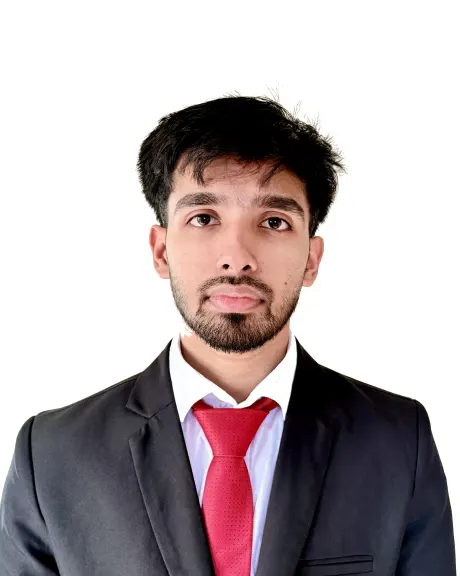
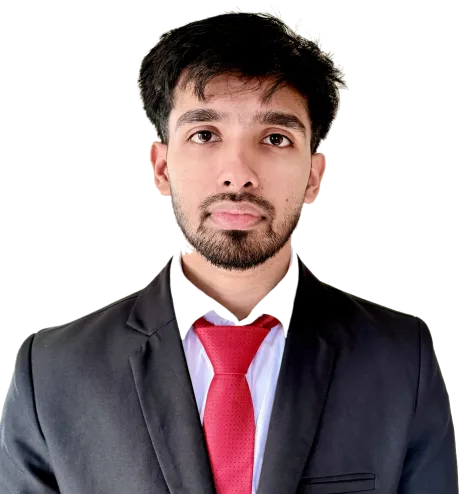
fix(about): cut the studio backdrop out of the headshot
The white studio background read as a bright rectangle punched into a
dark page. Removed it with a border-seeded flood fill over a near-white
test that is generous on brightness but strict on colour cast, so the
subject's white shirt survives while the backdrop goes. Mask computed at
900px, feathered, then scaled back to full resolution and cropped to the
subject.

He now sits directly on the scene over a faint teal wash, desaturated by
default and warming to full colour on hover, with a gradient mask at the
bottom so the shoulders dissolve instead of ending on a hard edge.
Transparent WebP at 104KB and 29KB.

diff --git a/src/styles/_about.scss b/src/styles/_about.scss
@@ -49,19 +49,27 @@
   top: 110px;
 }
 
+/* The backdrop is cut out of the source image, so the subject sits directly
+   on the scene. A teal wash underneath ties him to the palette and clears on
+   hover. */
 .about__photo {
-  padding: 10px;
+  padding: 12px;
+  background:
+    radial-gradient(ellipse 78% 62% at 50% 96%, rgba(79, 227, 176, 0.13), transparent 70%),
+    linear-gradient(to bottom, rgba(13, 20, 32, 0.35), rgba(5, 7, 11, 0.75));
 
   img {
     width: 100%;
     height: auto;
-    filter: grayscale(1) contrast(1.08) brightness(0.92);
-    mix-blend-mode: luminosity;
+    filter: grayscale(0.86) contrast(1.06) brightness(0.94);
     transition: filter var(--dur-slow) var(--ease-out);
+    /* The crop ends at the shoulders. Without this the suit stops on a hard
+       horizontal edge; the fade lets him dissolve into the scene instead. */
+    mask-image: linear-gradient(to bottom, #000 72%, rgba(0, 0, 0, 0.35) 90%, transparent 100%);
   }
 
   &:hover img {
-    filter: grayscale(0.15) contrast(1.02) brightness(1);
+    filter: grayscale(0) contrast(1) brightness(1);
   }
 }
 

diff --git a/src/sections/About.jsx b/src/sections/About.jsx
@@ -39,8 +39,8 @@ export default function About() {
                 srcSet={`${BASE}arif-headshot-sm.webp 460w, ${BASE}arif-headshot.webp 900w`}
                 sizes="(max-width: 900px) 60vw, 340px"
                 alt="Md. Arif Shekh"
-                width="900"
-                height="1125"
+                width="2778"
+                height="2983"
                 loading="lazy"
                 decoding="async"
               />
